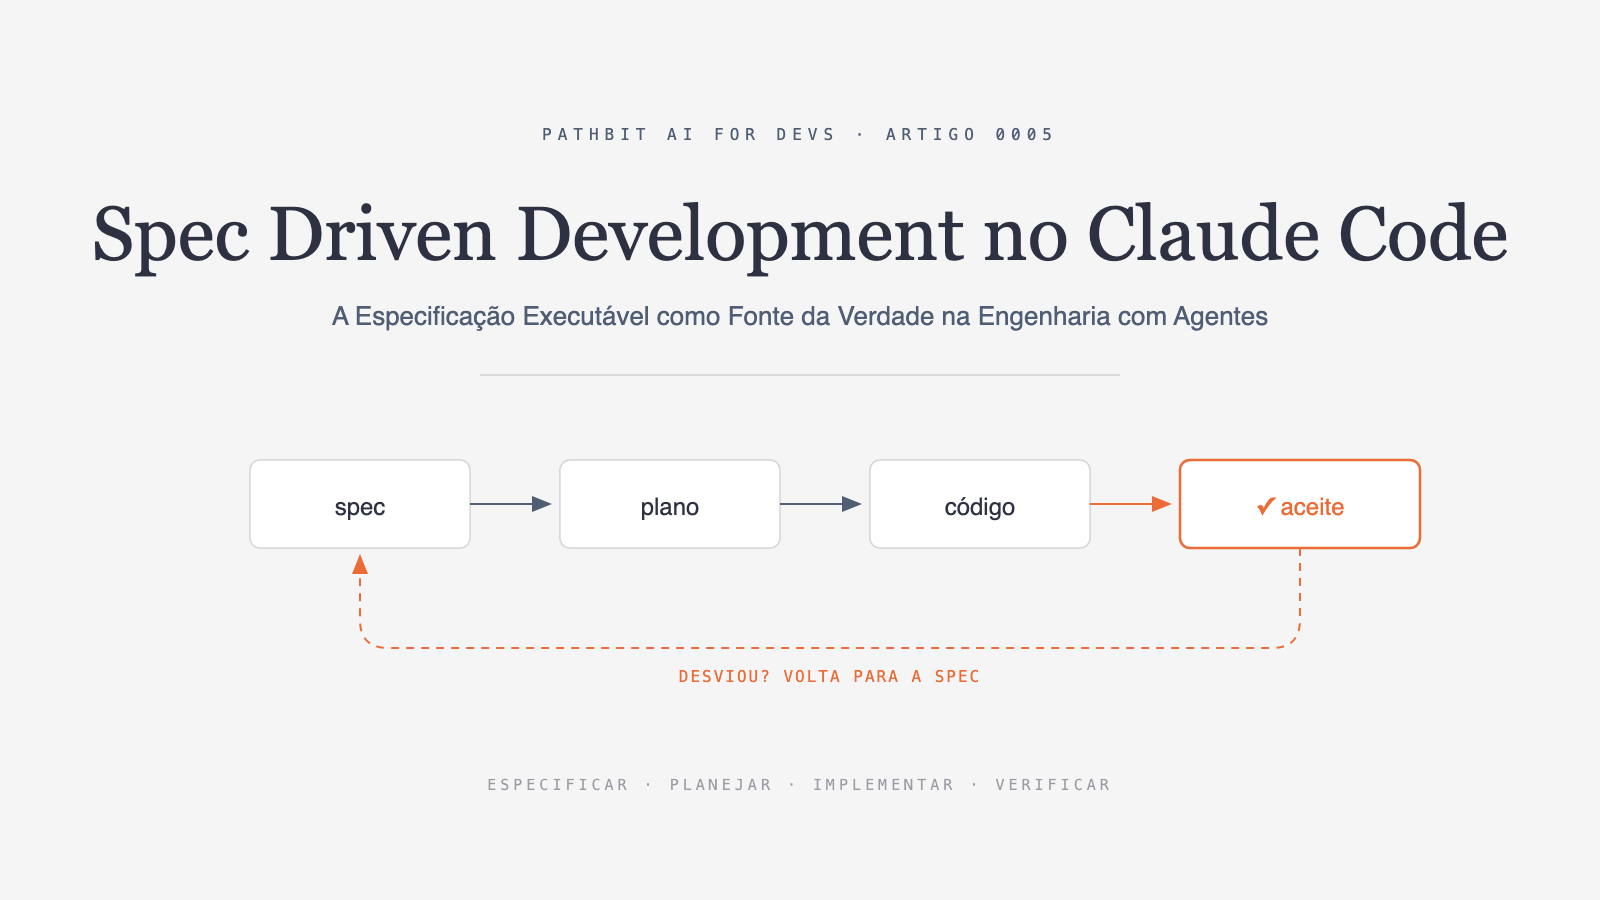
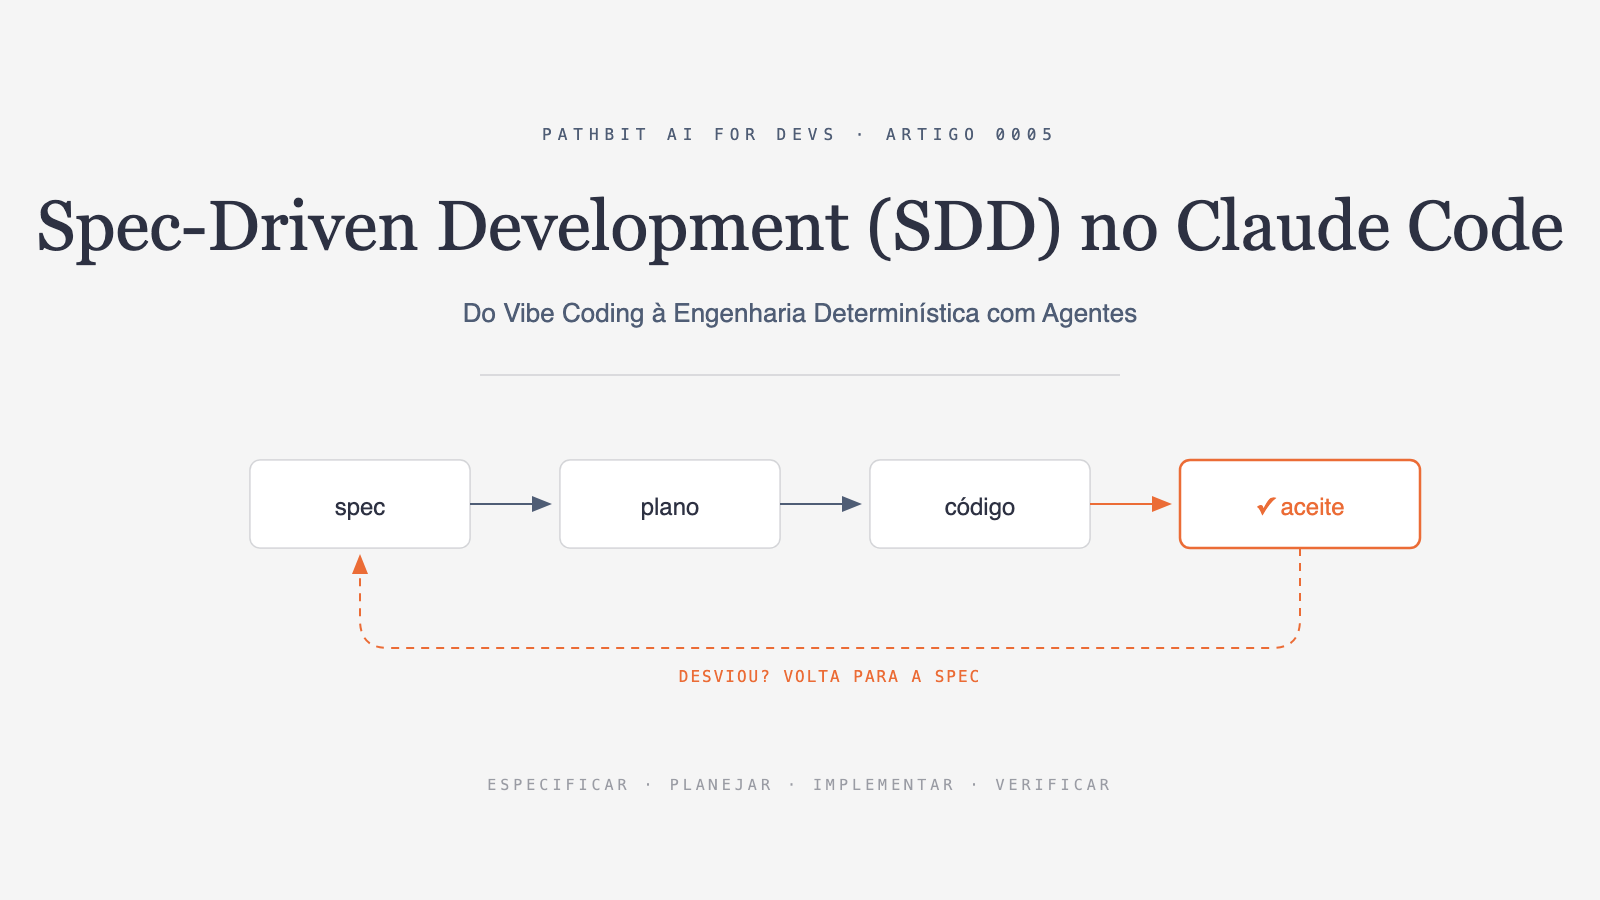
refactor(0005): evoluir titulo oficial e capas para Spec-Driven Development no Claude Code

Changed region(s): [[0.0, 0.2178, 1.0, 0.3111], [0.2188, 0.3422, 0.8125, 0.3733]]

diff --git a/0005_sdd_spec_driven_development/assets/diagrams/00_cover_sdd.html b/0005_sdd_spec_driven_development/assets/diagrams/00_cover_sdd.html
@@ -36,9 +36,9 @@
 
   <text x="800" y="140" text-anchor="middle" font-family="'Geist Mono', monospace" font-size="16" letter-spacing="6" fill="#4f5d75">PATHBIT AI FOR DEVS · ARTIGO 0005</text>
 
-  <text x="800" y="260" text-anchor="middle" font-family="'Instrument Serif', Georgia, serif" font-size="76" fill="#2d3142">Spec Driven Development no Claude Code</text>
+  <text x="800" y="250" text-anchor="middle" font-family="'Instrument Serif', Georgia, serif" font-size="70" fill="#2d3142">Spec-Driven Development (SDD) no Claude Code</text>
 
-  <text x="800" y="325" text-anchor="middle" font-family="'Geist', sans-serif" font-size="26" font-weight="400" fill="#4f5d75">A Especificação Executável como Fonte da Verdade na Engenharia com Agentes</text>
+  <text x="800" y="322" text-anchor="middle" font-family="'Geist', sans-serif" font-size="26" font-weight="400" fill="#4f5d75">Do Vibe Coding à Engenharia Determinística com Agentes</text>
 
   <line x1="480" y1="375" x2="1120" y2="375" stroke="rgba(45,49,66,0.18)" stroke-width="1.5"/>
 

diff --git a/0005_sdd_spec_driven_development/assets/diagrams/cover_linkedin.html b/0005_sdd_spec_driven_development/assets/diagrams/cover_linkedin.html
@@ -36,9 +36,9 @@
 
   <text x="600" y="85" text-anchor="middle" font-family="'Geist Mono', monospace" font-size="13" letter-spacing="5" fill="#4f5d75">PATHBIT AI FOR DEVS · ARTIGO 0005</text>
 
-  <text x="600" y="195" text-anchor="middle" font-family="'Instrument Serif', Georgia, serif" font-size="58" fill="#2d3142">Spec Driven Development no Claude Code</text>
+  <text x="600" y="185" text-anchor="middle" font-family="'Instrument Serif', Georgia, serif" font-size="50" fill="#2d3142">Spec-Driven Development (SDD) no Claude Code</text>
 
-  <text x="600" y="248" text-anchor="middle" font-family="'Geist', sans-serif" font-size="20" font-weight="400" fill="#4f5d75">A Especificação Executável como Fonte da Verdade na Engenharia com Agentes</text>
+  <text x="600" y="244" text-anchor="middle" font-family="'Geist', sans-serif" font-size="20" font-weight="400" fill="#4f5d75">Do Vibe Coding à Engenharia Determinística com Agentes</text>
 
   <line x1="380" y1="285" x2="820" y2="285" stroke="rgba(45,49,66,0.18)" stroke-width="1.5"/>
 

diff --git a/0005_sdd_spec_driven_development/assets/00_cover_sdd.md b/0005_sdd_spec_driven_development/assets/00_cover_sdd.md
@@ -11,8 +11,8 @@ Capa editorial do artigo 0005, em paisagem 16:9:
 
 - Fundo em papel claro `#f5f5f5`, sem fotos, sem cliparts, sem emojis.
 - No topo, kicker em tipografia mono espaçada, maiúscula, na cor `#4f5d75`: "PATHBIT AI FOR DEVS · ARTIGO 0005".
-- No centro, título grande em serifa (Instrument Serif) na cor `#2d3142`: "Spec Driven Development no Claude Code".
-- Abaixo do título, subtítulo em sans-serif (Geist) na cor `#4f5d75`: "A especificação executável como fonte da verdade na engenharia com agentes".
+- No centro, título grande em serifa (Instrument Serif) na cor `#2d3142`: "Spec-Driven Development (SDD) no Claude Code".
+- Abaixo do título, subtítulo em sans-serif (Geist) na cor `#4f5d75`: "Do Vibe Coding à Engenharia Determinística com Agentes".
 - Como elemento gráfico central, um fluxo horizontal de três caixas brancas com borda fina cinza-azulada rotuladas `spec`, `plano` e `código`, conectadas por setas, terminando em uma quarta caixa com borda laranja `#eb6c36` rotulada `✓ critério de aceite`.
 - Uma seta tracejada laranja volta do fim do fluxo para a primeira caixa, sugerindo o laço de retorno do ciclo iterativo.
 - Composição limpa, muito espaço em branco, hierarquia editorial sóbria.
@@ -25,4 +25,4 @@ Paleta e tipografia do repo: fundo `#f5f5f5`, tinta `#2d3142`, secundário `#4f5
 
 Prompt completo e autossuficiente em pt-BR para um modelo de geração de imagem:
 
-> Capa editorial de artigo técnico em formato paisagem 16:9 (1600×900). Fundo em papel claro #f5f5f5, sem fotos, sem cliparts, sem emojis. No topo, um kicker em tipografia mono espaçada, maiúscula, na cor #4f5d75: "PATHBIT AI FOR DEVS · ARTIGO 0005". No centro, o título grande em serifa (Instrument Serif) na cor #2d3142: "Spec Driven Development no Claude Code". Abaixo, o subtítulo em sans-serif (Geist) na cor #4f5d75: "A especificação executável como fonte da verdade na engenharia com agentes". Como elemento gráfico central, um fluxo horizontal de três caixas brancas com borda fina cinza-azulada rotuladas "spec", "plano" e "código", conectadas por setas, terminando em uma quarta caixa com borda laranja #eb6c36 rotulada "✓ critério de aceite"; uma seta tracejada laranja volta do fim do fluxo para a primeira caixa, sugerindo o laço de retorno do ciclo. Composição limpa, muito espaço em branco, hierarquia editorial sóbria.
+> Capa editorial de artigo técnico em formato paisagem 16:9 (1600×900). Fundo em papel claro #f5f5f5, sem fotos, sem cliparts, sem emojis. No topo, um kicker em tipografia mono espaçada, maiúscula, na cor #4f5d75: "PATHBIT AI FOR DEVS · ARTIGO 0005". No centro, o título grande em serifa (Instrument Serif) na cor #2d3142: "Spec-Driven Development (SDD) no Claude Code". Abaixo, o subtítulo em sans-serif (Geist) na cor #4f5d75: "Do Vibe Coding à Engenharia Determinística com Agentes". Como elemento gráfico central, um fluxo horizontal de três caixas brancas com borda fina cinza-azulada rotuladas "spec", "plano" e "código", conectadas por setas, terminando em uma quarta caixa com borda laranja #eb6c36 rotulada "✓ critério de aceite"; uma seta tracejada laranja volta do fim do fluxo para a primeira caixa, sugerindo o laço de retorno do ciclo. Composição limpa, muito espaço em branco, hierarquia editorial sóbria.

diff --git a/0005_sdd_spec_driven_development/assets/cover_linkedin.md b/0005_sdd_spec_driven_development/assets/cover_linkedin.md
@@ -11,8 +11,8 @@ Mesma identidade visual da capa 00_cover_sdd, em enquadramento compacto de feed 
 
 - Fundo em papel claro `#f5f5f5`, sem fotos, sem cliparts, sem emojis.
 - No topo, kicker mono maiúsculo espaçado na cor `#4f5d75`: "PATHBIT AI FOR DEVS · ARTIGO 0005".
-- Título em serifa (Instrument Serif) na cor `#2d3142`: "Spec Driven Development no Claude Code", em corpo grande o suficiente para permanecer legível em miniatura de feed.
-- Subtítulo em sans-serif (Geist) na cor `#4f5d75`: "A especificação executável como fonte da verdade na engenharia com agentes".
+- Título em serifa (Instrument Serif) na cor `#2d3142`: "Spec-Driven Development (SDD) no Claude Code", em corpo grande o suficiente para permanecer legível em miniatura de feed.
+- Subtítulo em sans-serif (Geist) na cor `#4f5d75`: "Do Vibe Coding à Engenharia Determinística com Agentes".
 - À direita ou abaixo do título, o fluxo compacto `spec → plano → código → ✓ critério de aceite`, com a última caixa em borda laranja `#eb6c36` e um laço de retorno tracejado laranja.
 - Composição mais compacta que a capa 16:9, sem cortar o título, hierarquia editorial sóbria.
 
@@ -24,4 +24,4 @@ Paleta e tipografia do repo: fundo `#f5f5f5`, tinta `#2d3142`, secundário `#4f5
 
 Prompt completo e autossuficiente em pt-BR para um modelo de geração de imagem:
 
-> Capa de artigo técnico em formato 1200×627 (proporção de feed do LinkedIn), mesma identidade visual da capa 16:9: fundo em papel #f5f5f5, kicker mono maiúsculo espaçado "PATHBIT AI FOR DEVS · ARTIGO 0005" em #4f5d75 no topo, título em serifa #2d3142 "Spec Driven Development no Claude Code" em corpo grande o suficiente para ser legível em miniatura de feed, subtítulo em sans-serif #4f5d75 "A especificação executável como fonte da verdade na engenharia com agentes". À direita ou abaixo do título, o fluxo compacto spec → plano → código → ✓ critério de aceite, com a última caixa em borda laranja #eb6c36 e um laço de retorno tracejado laranja. Composição mais compacta que a capa 16:9, sem cortar o título, sem cliparts, sem emojis.
+> Capa de artigo técnico em formato 1200×627 (proporção de feed do LinkedIn), mesma identidade visual da capa 16:9: fundo em papel #f5f5f5, kicker mono maiúsculo espaçado "PATHBIT AI FOR DEVS · ARTIGO 0005" em #4f5d75 no topo, título em serifa #2d3142 "Spec-Driven Development (SDD) no Claude Code" em corpo grande o suficiente para ser legível em miniatura de feed, subtítulo em sans-serif #4f5d75 "Do Vibe Coding à Engenharia Determinística com Agentes". À direita ou abaixo do título, o fluxo compacto spec → plano → código → ✓ critério de aceite, com a última caixa em borda laranja #eb6c36 e um laço de retorno tracejado laranja. Composição mais compacta que a capa 16:9, sem cortar o título, sem cliparts, sem emojis.

diff --git a/0005_sdd_spec_driven_development/README.md b/0005_sdd_spec_driven_development/README.md
@@ -1,4 +1,4 @@
-# 0005 - Spec Driven Development no Claude Code: A Especificação Executável como Fonte da Verdade na Engenharia com Agentes
+# 0005 - Spec-Driven Development (SDD) no Claude Code: Do Vibe Coding à Engenharia Determinística
 
 Nos módulos anteriores desta série, resolvemos toda a infraestrutura operacional: acesso irrestrito ao Antigravity, roteamento de modelos no Claude Code, malha de fallback e alternativas de baixo custo. Com o ambiente de alta performance estabelecido, a pergunta central muda de figura: o que você entrega ao agente para ele construir?
 

diff --git a/0005_sdd_spec_driven_development/article/POST_LINKEDIN.md b/0005_sdd_spec_driven_development/article/POST_LINKEDIN.md
@@ -1,4 +1,4 @@
-# Post LinkedIn: Spec Driven Development no Claude Code
+# Post LinkedIn: Spec-Driven Development (SDD) no Claude Code: Do Vibe Coding à Engenharia Determinística
 
 O seu agente de IA não erra o problema por incapacidade técnica. Ele simplesmente acerta outro problema, o único que estava subentendido no seu pedido vago.
 

diff --git a/0005_sdd_spec_driven_development/article/ARTICLE.md b/0005_sdd_spec_driven_development/article/ARTICLE.md
@@ -1,4 +1,4 @@
-# Spec Driven Development no Claude Code: A Especificação Executável como Fonte da Verdade na Engenharia com Agentes
+# Spec-Driven Development (SDD) no Claude Code: Do Vibe Coding à Engenharia Determinística
 
 ![Capa do Artigo - SDD](../assets/00_cover_sdd.png)
 

diff --git a/0005_sdd_spec_driven_development/article/ARTICLE_LINKEDIN.md b/0005_sdd_spec_driven_development/article/ARTICLE_LINKEDIN.md
@@ -1,4 +1,4 @@
-# Spec Driven Development no Claude Code: A Especificação Executável como Fonte da Verdade na Engenharia com Agentes
+# Spec-Driven Development (SDD) no Claude Code: Do Vibe Coding à Engenharia Determinística
 
 ![Capa do Artigo - SDD](../assets/00_cover_sdd.png)
 
